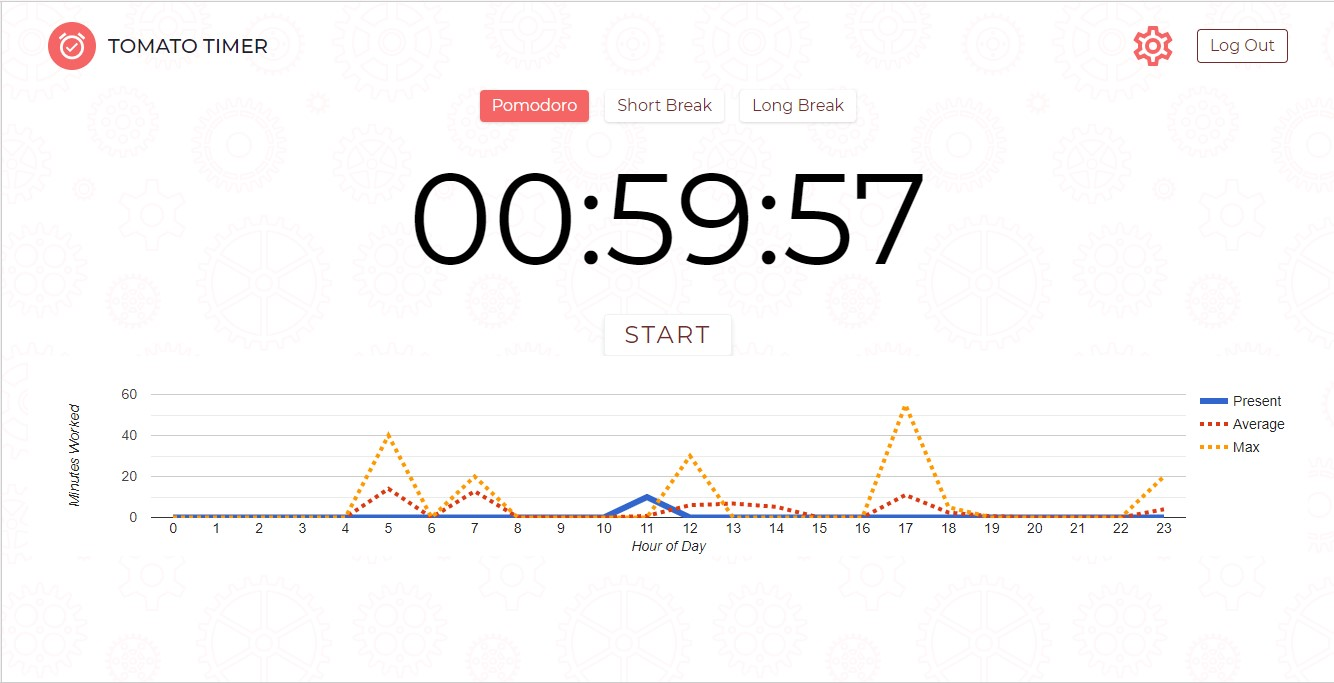
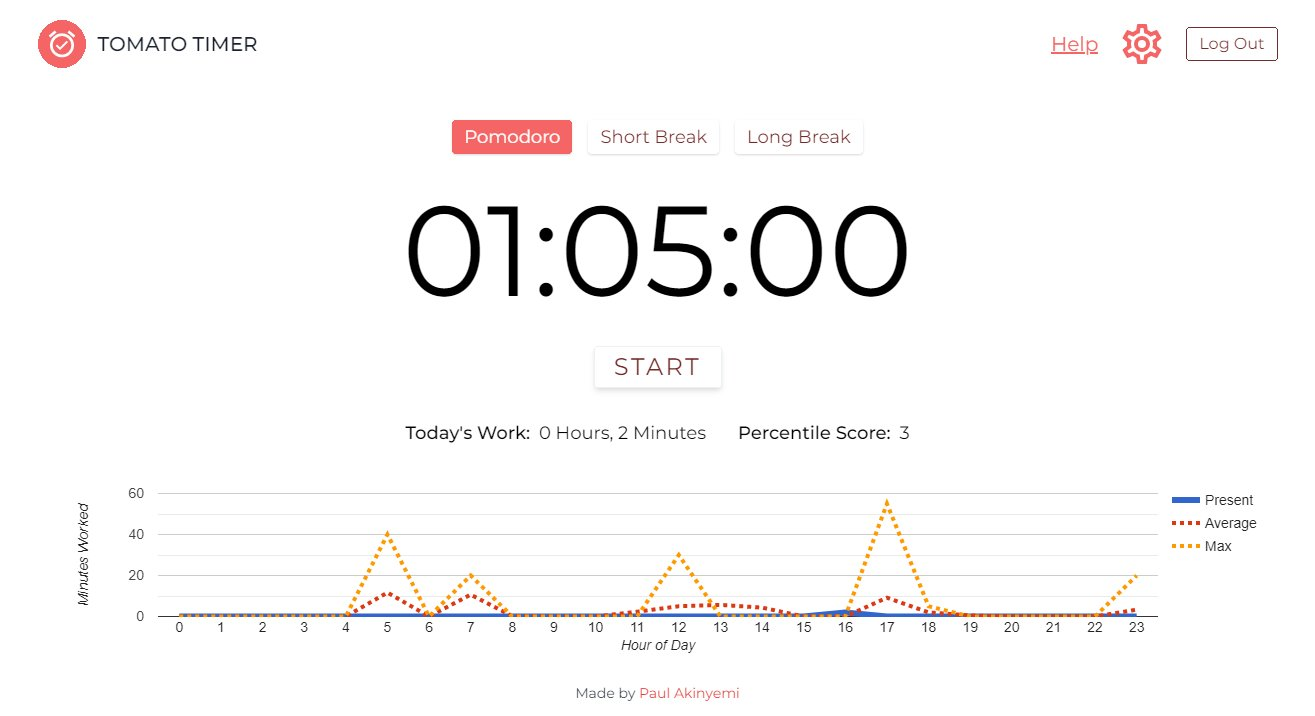
ui fixes

diff --git a/pages/index.vue b/pages/index.vue
@@ -454,7 +454,7 @@ export default {
       "
     ></settings-form>
 
-    <header>
+    <header class="mb-8">
       <div class="container mx-auto flex flex-wrap py-5 items-center">
         <a
           class="flex title-font font-medium items-center text-gray-900 w-3/5 md:w-auto"
@@ -473,6 +473,11 @@ export default {
         <nav
           class="md:ml-auto flex flex-col md:flex-row items-end flex-wrap md:items-center text-base justify-center w-2/5 md:w-auto"
         >
+          <nuxt-link
+            class="text-lg md:text-xl underline mb-2 sm:md-4 md:mr-5 md:mb-0 cursor-pointer text-red-500"
+            to="/help"
+            >Help</nuxt-link
+          >
           <a
             class="mb-2 sm:md-4 md:mr-5 md:mb-0 cursor-pointer text-red-500"
             title="Settings"
